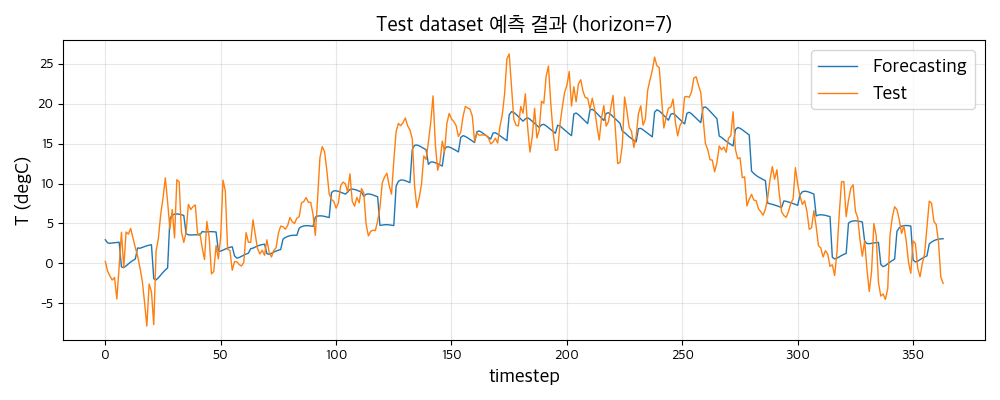
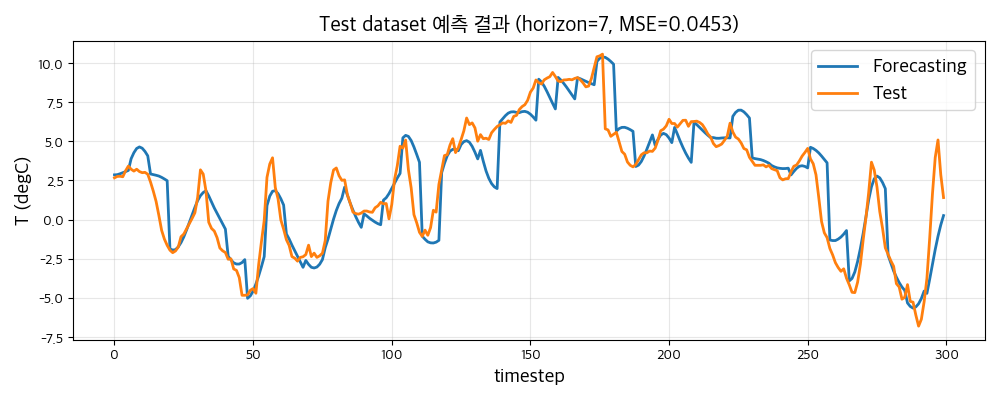
update:

diff --git a/rnn/main_teacher.py b/rnn/main_teacher.py
@@ -10,7 +10,7 @@ import torch.nn as nn
 from torch.utils.data import TensorDataset, DataLoader
 #%%
 ### 데이터 불러오기
-df = pd.read_csv("./data/climate.csv", parse_dates=['timestep'], index_col=0)
+df = pd.read_csv("./data/climate.csv", parse_dates=['Date Time'], index_col=0)
 print(df.shape)
 print(df.head())
 #%%
@@ -35,7 +35,7 @@ torch.manual_seed(configs['seed'])
 np.random.seed(configs['seed'])
 #%%
 ### train, val / test split
-trainval_len = len(df.loc[df['timestep'] < "2016-01-01"])
+trainval_len = len(df.loc[df['Date Time'] < "2016-10-01"])
 trainval = df.iloc[:trainval_len]
 test = df.iloc[trainval_len - configs["lookback"]:] ### test dataset의 첫 번째 sequence의 input
 trainval.tail(30)
@@ -49,14 +49,16 @@ print(train.shape)
 print(val.shape)
 print(test.shape)
 #%%
+target = "T (degC)"
+
 ### 단변량 시계열 데이터 - T (degC)
-train_y = train[["T (degC)"]].values.astype("float32") # [T, 1]
+train_y = train[[target]].values.astype("float32") # [T, 1]
 train_y = torch.FloatTensor(train_y)
 
-val_y = val[["T (degC)"]].values.astype("float32") # [T, 1]
+val_y = val[[target]].values.astype("float32") # [T, 1]
 val_y = torch.FloatTensor(val_y)
 
-test_y = test[["T (degC)"]].values.astype("float32") # [T, 1]
+test_y = test[[target]].values.astype("float32") # [T, 1]
 test_y = torch.FloatTensor(test_y)
 #%%
 ### 표준화 - 학습데이터의 통계량만을 이용
@@ -177,7 +179,7 @@ for epoch in range(configs['epochs']):
     for x_batch, y_batch in train_loader:
         optimizer.zero_grad()
 
-        pred = model(x_batch) # [B, horizon, feature_dim]
+        pred = model(x_batch, y_batch) # 정답도 함께 넣어줌, [B, horizon, feature_dim]
 
         loss = loss_fn(pred, y_batch) # MSE
         train_losses.append(loss.item())
@@ -199,7 +201,7 @@ for epoch in range(configs['epochs']):
 
     train_history.append(train_mse)
     val_history.append(val_mse)
-    print(f"Epoch {epoch+1:3d}/{configs['epochs']} | Train MSE {train_mse:.4f} | Val MSE {val_mse:.4f}")
+    print(f"Epoch: {epoch+1:3d}/{configs['epochs']} | Train MSE: {train_mse:.4f} | Val MSE: {val_mse:.4f}")
 #%%
 ### loss values 시각화
 plt.figure(figsize=(7, 3))
@@ -231,7 +233,9 @@ print(forecast.shape)
 print(true.shape)
 #%%
 test_mse = (forecast - true).pow(2).mean()
+test_mse_lag = (forecast[1:] - true[:-1]).pow(2).mean()
 print(f"Test dataset MSE: {test_mse:.4f}")
+print(f"Test dataset MSE (lag 1): {test_mse_lag:.4f}")
 #%%
 ### horizon 간격으로 시계열을 이동
 forecast = forecast[::configs['horizon'], :].flatten()
@@ -242,11 +246,11 @@ forecast_scaled = forecast * std + mean
 true_scaled = true * std + mean
 #%%
 plt.figure(figsize=(10, 4))
-plt.plot(forecast_scaled, linewidth=1, label="Forecasting")
-plt.plot(true_scaled, linewidth=1, label="Test")
+plt.plot(forecast_scaled[-300:], linewidth=2, label="Forecasting")
+plt.plot(true_scaled[-300:], linewidth=2, label="Test")
 plt.xlabel("timestep", fontsize=14)
 plt.ylabel("T (degC)", fontsize=14)
-plt.title(f"Test dataset 예측 결과 (horizon={configs['horizon']})", fontsize=15)
+plt.title(f"Test dataset 예측 결과 (horizon={configs['horizon']}, MSE={test_mse:.4f})", fontsize=15)
 plt.grid(alpha=0.3)
 plt.legend(fontsize=14)
 plt.tight_layout()

diff --git a/rnn/main.py b/rnn/main.py
@@ -10,7 +10,7 @@ import torch.nn as nn
 from torch.utils.data import TensorDataset, DataLoader
 #%%
 ### 데이터 불러오기
-df = pd.read_csv("./data/climate.csv", parse_dates=['timestep'], index_col=0)
+df = pd.read_csv("./data/climate.csv", parse_dates=['Date Time'], index_col=0)
 print(df.shape)
 print(df.head())
 #%%
@@ -35,7 +35,7 @@ torch.manual_seed(configs['seed'])
 np.random.seed(configs['seed'])
 #%%
 ### train, val / test split
-trainval_len = len(df.loc[df['timestep'] < "2016-01-01"])
+trainval_len = len(df.loc[df['Date Time'] < "2016-10-01"])
 trainval = df.iloc[:trainval_len]
 test = df.iloc[trainval_len - configs["lookback"]:] ### test dataset의 첫 번째 sequence의 input
 trainval.tail(30)
@@ -49,14 +49,16 @@ print(train.shape)
 print(val.shape)
 print(test.shape)
 #%%
+target = "T (degC)"
+
 ### 단변량 시계열 데이터 - T (degC)
-train_y = train[["T (degC)"]].values.astype("float32") # [T, 1]
+train_y = train[[target]].values.astype("float32") # [T, 1]
 train_y = torch.FloatTensor(train_y)
 
-val_y = val[["T (degC)"]].values.astype("float32") # [T, 1]
+val_y = val[[target]].values.astype("float32") # [T, 1]
 val_y = torch.FloatTensor(val_y)
 
-test_y = test[["T (degC)"]].values.astype("float32") # [T, 1]
+test_y = test[[target]].values.astype("float32") # [T, 1]
 test_y = torch.FloatTensor(test_y)
 #%%
 ### 표준화 - 학습데이터의 통계량만을 이용
@@ -196,7 +198,7 @@ for epoch in range(configs['epochs']):
 
     train_history.append(train_mse)
     val_history.append(val_mse)
-    print(f"Epoch {epoch+1:3d}/{configs['epochs']} | Train MSE {train_mse:.4f} | Val MSE {val_mse:.4f}")
+    print(f"Epoch: {epoch+1:3d}/{configs['epochs']} | Train MSE: {train_mse:.4f} | Val MSE: {val_mse:.4f}")
 #%%
 ### loss values 시각화
 plt.figure(figsize=(7, 3))
@@ -228,7 +230,9 @@ print(forecast.shape)
 print(true.shape)
 #%%
 test_mse = (forecast - true).pow(2).mean()
+test_mse_lag = (forecast[1:] - true[:-1]).pow(2).mean()
 print(f"Test dataset MSE: {test_mse:.4f}")
+print(f"Test dataset MSE (lag 1): {test_mse_lag:.4f}")
 #%%
 ### horizon 간격으로 시계열을 이동
 forecast = forecast[::configs['horizon'], :].flatten()
@@ -239,11 +243,11 @@ forecast_scaled = forecast * std + mean
 true_scaled = true * std + mean
 #%%
 plt.figure(figsize=(10, 4))
-plt.plot(forecast_scaled, linewidth=1, label="Forecasting")
-plt.plot(true_scaled, linewidth=1, label="Test")
+plt.plot(forecast_scaled[-300:], linewidth=2, label="Forecasting")
+plt.plot(true_scaled[-300:], linewidth=2, label="Test")
 plt.xlabel("timestep", fontsize=14)
 plt.ylabel("T (degC)", fontsize=14)
-plt.title(f"Test dataset 예측 결과 (horizon={configs['horizon']})", fontsize=15)
+plt.title(f"Test dataset 예측 결과 (horizon={configs['horizon']}, MSE={test_mse:.4f})", fontsize=15)
 plt.grid(alpha=0.3)
 plt.legend(fontsize=14)
 plt.tight_layout()

diff --git a/rnn/main_direct.py b/rnn/main_direct.py
@@ -10,7 +10,7 @@ import torch.nn as nn
 from torch.utils.data import TensorDataset, DataLoader
 #%%
 ### 데이터 불러오기
-df = pd.read_csv("./data/climate.csv", parse_dates=['timestep'], index_col=0)
+df = pd.read_csv("./data/climate.csv", parse_dates=['Date Time'], index_col=0)
 print(df.shape)
 print(df.head())
 #%%
@@ -35,7 +35,7 @@ torch.manual_seed(configs['seed'])
 np.random.seed(configs['seed'])
 #%%
 ### train, val / test split
-trainval_len = len(df.loc[df['timestep'] < "2016-01-01"])
+trainval_len = len(df.loc[df['Date Time'] < "2016-10-01"])
 trainval = df.iloc[:trainval_len]
 test = df.iloc[trainval_len - configs["lookback"]:] ### test dataset의 첫 번째 sequence의 input
 trainval.tail(30)
@@ -49,14 +49,16 @@ print(train.shape)
 print(val.shape)
 print(test.shape)
 #%%
+target = "T (degC)"
+
 ### 단변량 시계열 데이터 - T (degC)
-train_y = train[["T (degC)"]].values.astype("float32") # [T, 1]
+train_y = train[[target]].values.astype("float32") # [T, 1]
 train_y = torch.FloatTensor(train_y)
 
-val_y = val[["T (degC)"]].values.astype("float32") # [T, 1]
+val_y = val[[target]].values.astype("float32") # [T, 1]
 val_y = torch.FloatTensor(val_y)
 
-test_y = test[["T (degC)"]].values.astype("float32") # [T, 1]
+test_y = test[[target]].values.astype("float32") # [T, 1]
 test_y = torch.FloatTensor(test_y)
 #%%
 ### 표준화 - 학습데이터의 통계량만을 이용
@@ -183,7 +185,7 @@ for epoch in range(configs['epochs']):
 
     train_history.append(train_mse)
     val_history.append(val_mse)
-    print(f"Epoch {epoch+1:3d}/{configs['epochs']} | Train MSE {train_mse:.4f} | Val MSE {val_mse:.4f}")
+    print(f"Epoch: {epoch+1:3d}/{configs['epochs']} | Train MSE: {train_mse:.4f} | Val MSE: {val_mse:.4f}")
 #%%
 ### loss values 시각화
 plt.figure(figsize=(7, 3))
@@ -215,7 +217,9 @@ print(forecast.shape)
 print(true.shape)
 #%%
 test_mse = (forecast - true).pow(2).mean()
+test_mse_lag = (forecast[1:] - true[:-1]).pow(2).mean()
 print(f"Test dataset MSE: {test_mse:.4f}")
+print(f"Test dataset MSE (lag 1): {test_mse_lag:.4f}")
 #%%
 ### horizon 간격으로 시계열을 이동
 forecast = forecast[::configs['horizon'], :].flatten()
@@ -226,11 +230,11 @@ forecast_scaled = forecast * std + mean
 true_scaled = true * std + mean
 #%%
 plt.figure(figsize=(10, 4))
-plt.plot(forecast_scaled, linewidth=1, label="Forecasting")
-plt.plot(true_scaled, linewidth=1, label="Test")
+plt.plot(forecast_scaled[-300:], linewidth=2, label="Forecasting")
+plt.plot(true_scaled[-300:], linewidth=2, label="Test")
 plt.xlabel("timestep", fontsize=14)
 plt.ylabel("T (degC)", fontsize=14)
-plt.title(f"Test dataset 예측 결과 (horizon={configs['horizon']})", fontsize=15)
+plt.title(f"Test dataset 예측 결과 (horizon={configs['horizon']}, MSE={test_mse:.4f})", fontsize=15)
 plt.grid(alpha=0.3)
 plt.legend(fontsize=14)
 plt.tight_layout()

diff --git a/rnn/preprocess.py b/rnn/preprocess.py
@@ -19,8 +19,8 @@ df["Date Time"] = pd.to_datetime(
     format="%d.%m.%Y %H:%M:%S"
 )
 #%%
-### 최근 6년간의 데이터만 추출
-start_date = "2011-01-01 00:00:00"
+### 최근 3년간의 데이터만 추출
+start_date = "2014-01-01 00:00:00"
 end_date   = "2016-12-31 23:59:59"
 
 target_df = df.loc[
@@ -30,26 +30,26 @@ target_df = df.loc[
 print(target_df.shape)
 print(target_df.head())
 #%%
-### 일별 평균 계산
-target_df["timestep"] = target_df["Date Time"].dt.floor("D") # 시분초 정보 제거
-target_df_daily = target_df.groupby("timestep")["T (degC)"].mean().reset_index() # 일별 평균 계산
+### 시간별 관측 데이터 추출
+target_df_hour = target_df.loc[
+    (target_df["Date Time"].dt.minute == 0) & (target_df["Date Time"].dt.second == 0)
+]
+target_df_hour.to_csv("./data/climate.csv")
 
-target_df_daily.to_csv("./data/climate.csv")
-
-print(target_df_daily.shape)
-print(target_df_daily.head())
+print(target_df_hour.shape)
+print(target_df_hour.head())
 #%%
 ### 시각화
 plt.figure(figsize=(15, 5))
 plt.plot(
-    target_df_daily["timestep"], target_df_daily["T (degC)"],
-    linewidth=0.8
+    target_df_hour["Date Time"].iloc[-1000:], target_df_hour["T (degC)"].iloc[-1000:],
+    linewidth=2
 )
-plt.xlabel("timesteps", fontsize=16)
-plt.ylabel("Temperature (degC)", fontsize=16)
-plt.xticks(fontsize=15)
-plt.yticks(fontsize=15)
-plt.title("Daily Average Temperature (2011-2016)", fontsize=17)
+plt.xlabel("timesteps", fontsize=18)
+plt.ylabel("Temperature (degC)", fontsize=18)
+plt.xticks(fontsize=16)
+plt.yticks(fontsize=16)
+plt.title("Daily Average Temperature", fontsize=19)
 plt.grid(alpha=0.3)
 plt.tight_layout()
 plt.savefig("./fig/observations.png")
